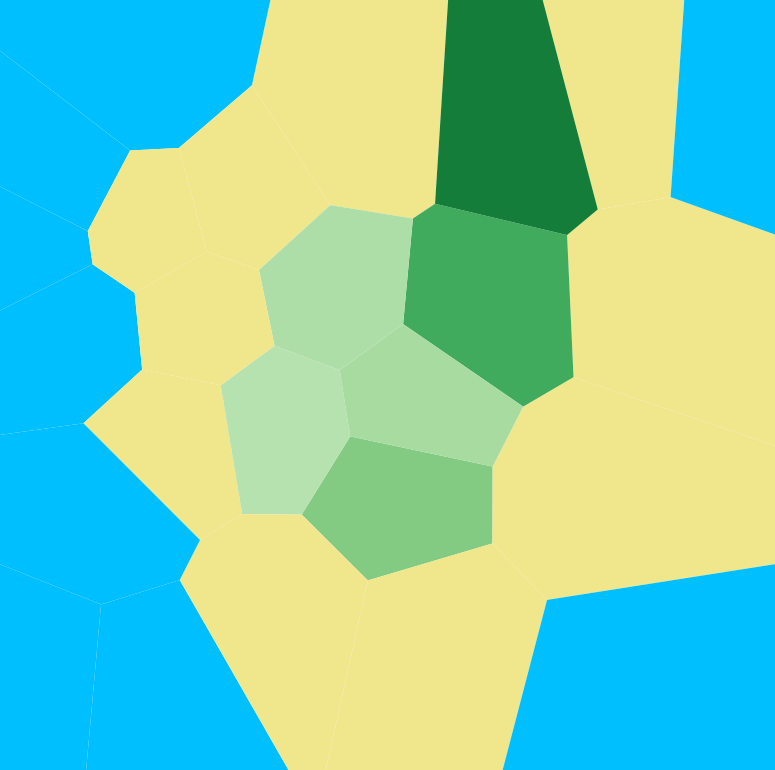
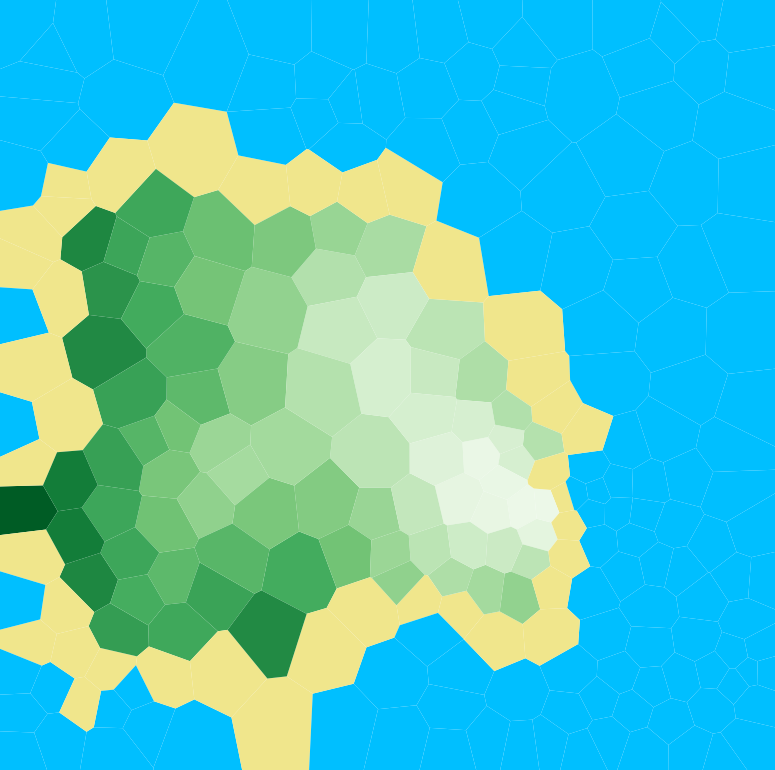
fix: ajustes na imagem 3d

diff --git a/src/map_geration/draw_map.py b/src/map_geration/draw_map.py
@@ -5,48 +5,47 @@ import math
 from typing import *
 
 import numpy as np
-from PIL import Image
-from shapely.geometry import Point
-from shapely.geometry.polygon import Polygon
+import cv2
+from PIL import Image, ImageDraw
 
 from map_geration.graph import *
-from map_geration.terrain_enum import *
+from map_geration.map_enums import *
+from map_geration.map import is_center_a_map_corner, nearest_map_corner
 
+KERNEL_SIZE = (75, 75)
 
-def set_color():
-    pass
+def pos_processing(image):
+    open_cv_image = np.array(image)
+    
+    _, mask = cv2.threshold(open_cv_image, 1, 255, 0)
+    blur_image = cv2.blur(open_cv_image, KERNEL_SIZE)
+    open_cv_image = cv2.bitwise_and(blur_image, blur_image, mask=mask)
+
+    return Image.fromarray(open_cv_image)
+
 
 def convert_map_to_3d_image(
     graph: Graph,
     path:str=""
 ):
-    image = Image.new('RGB', (1000, 1000))
-    pixel_map = image.load()
+    IMAGE_SIZE = 1000
+    image = Image.new('L', (IMAGE_SIZE,) * 2)
     centers = graph.centers
 
-    polygons = []
-    for center in graph.centers:
-        points = []
-        for corner in center.corners:
-            points.append([corner.x, corner.y])
+    image_draw = ImageDraw.Draw(image)
+    for center in centers:
+        if center.terrain_type == TerrainType.OCEAN: continue
+
+        points = np.array([[corner.x, corner.y] for corner in center.corners])
+        if is_center_a_map_corner(center):
+            points = np.insert(points, -2, nearest_map_corner(points))
+            points = points.reshape(-1, 2)
+        points = points * IMAGE_SIZE
+        points_converted = list(map(tuple, points))
         
-        polygons.append(Polygon(points))
-        
-
-    for y in range(image.size[1]):
-        for x in range(image.size[0]):
-            x_convert = np.divide(x, image.size[0])
-            y_convert = np.divide(y, image.size[1])
-            point = Point(x_convert, y_convert)
-
-            for i in range(len(polygons)):
-                if polygons[i].contains(point):
-                    break
-            
-            if centers[i].terrain_type in (TerrainType.OCEAN, TerrainType.LAKE):
-                continue
-            
-            color = math.floor(centers[i].height * 255)
-            pixel_map[x, y] = (color, color, color)
-
+        color = math.floor(center.height * 255)
+        image_draw.polygon(xy=points_converted, fill=color)
+    
+    image = image.transpose(Image.FLIP_TOP_BOTTOM)
+    image = pos_processing(image)
     image.save(f"{path}.png")

diff --git a/src/map_geration/terrain.py b/src/map_geration/terrain.py
@@ -8,7 +8,7 @@ import numpy as np
 from map_geration.graph import *
 from shapely.geometry import Point
 from shapely.geometry.polygon import Polygon
-from map_geration.terrain_enum import *
+from map_geration.map_enums import *
 
 def assign_terrain_from_image(image, graph: Graph):
     def generate_coast(center: Center, visited: list=[]):
@@ -48,14 +48,14 @@ def assign_terrain_from_image(image, graph: Graph):
             
             graph.centers[i].terrain_type = TerrainType.LAND
 
-    logging.info("Encontrando o primeiro poligono LAND")
+    logging.info("Procurando o primeiro poligono LAND")
     a_land_center = graph.centers[0]
     for center in graph.centers:
         if center.terrain_type == TerrainType.LAND:
             a_land_center = center
             break
     
-    logging.info("Assinando poligonos como COAST")
+    logging.info("Marcando poligonos como COAST")
     generate_coast(a_land_center)
 
 def assign_corner_elevations(graph: Graph, borders=None):

diff --git a/src/map_geration/graph.py b/src/map_geration/graph.py
@@ -1,6 +1,6 @@
 from typing import *
 
-from map_geration.terrain_enum import BiomeType, TerrainType
+from map_geration.map_enums import BiomeType, TerrainType
 
 from map_geration.voronoi import VoronoiPolygons
 
@@ -37,7 +37,7 @@ class Corner:
         self.touches = []
         self.protrudes = []
         self.adjacent = []
-        self.terrain_type = TerrainType.LAND
+        self.terrain_type = TerrainType.OCEAN
         self.height = 0
         self.downslope = None
         self.river = 0

diff --git a/src/map_geration/map.py b/src/map_geration/map.py
@@ -13,7 +13,7 @@ from matplotlib.patches import Polygon
 from scipy.spatial import ConvexHull
 
 from map_geration.graph import *
-from map_geration.terrain_enum import *
+from map_geration.map_enums import *
 
 
 def convert_map_to_image(

diff --git a/src/main.py b/src/main.py
@@ -33,7 +33,7 @@ class MapWorker(QObject):
     finished = pyqtSignal()
     result = pyqtSignal(QImage)
     image = None
-    points = 25
+    points = 250
 
     def run(self):
         logging.info("MapWorker em execução")
